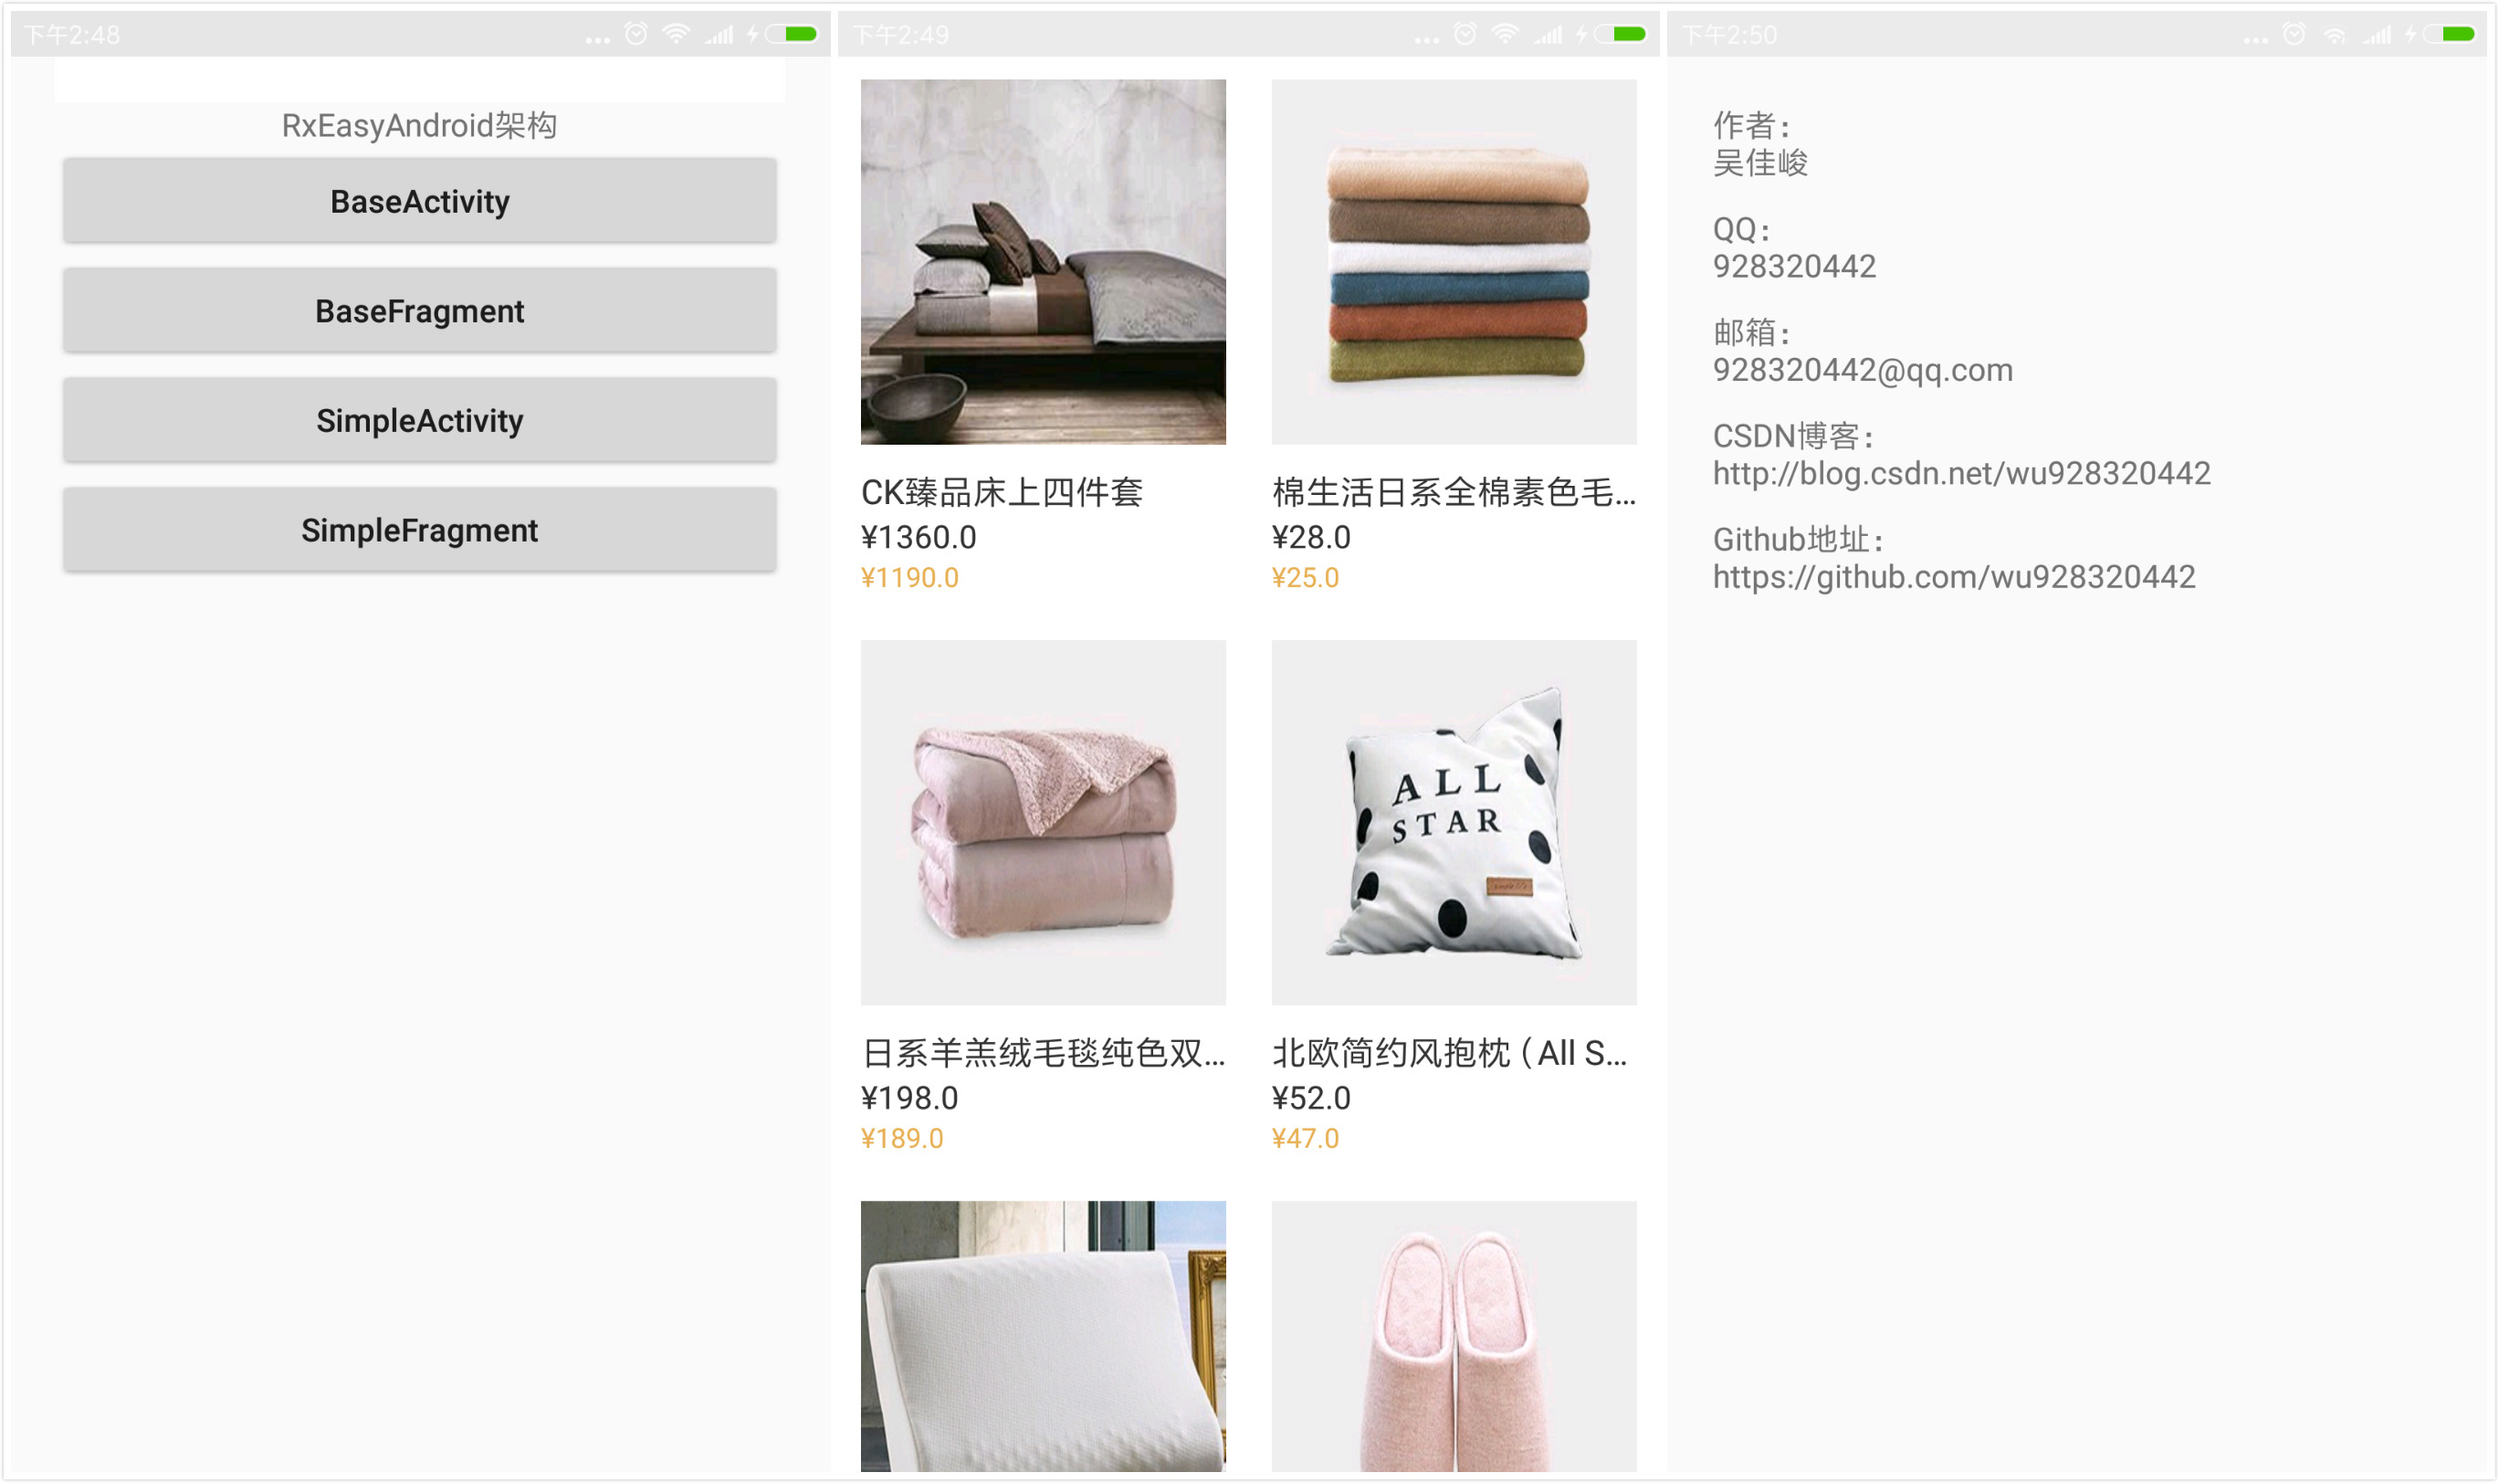
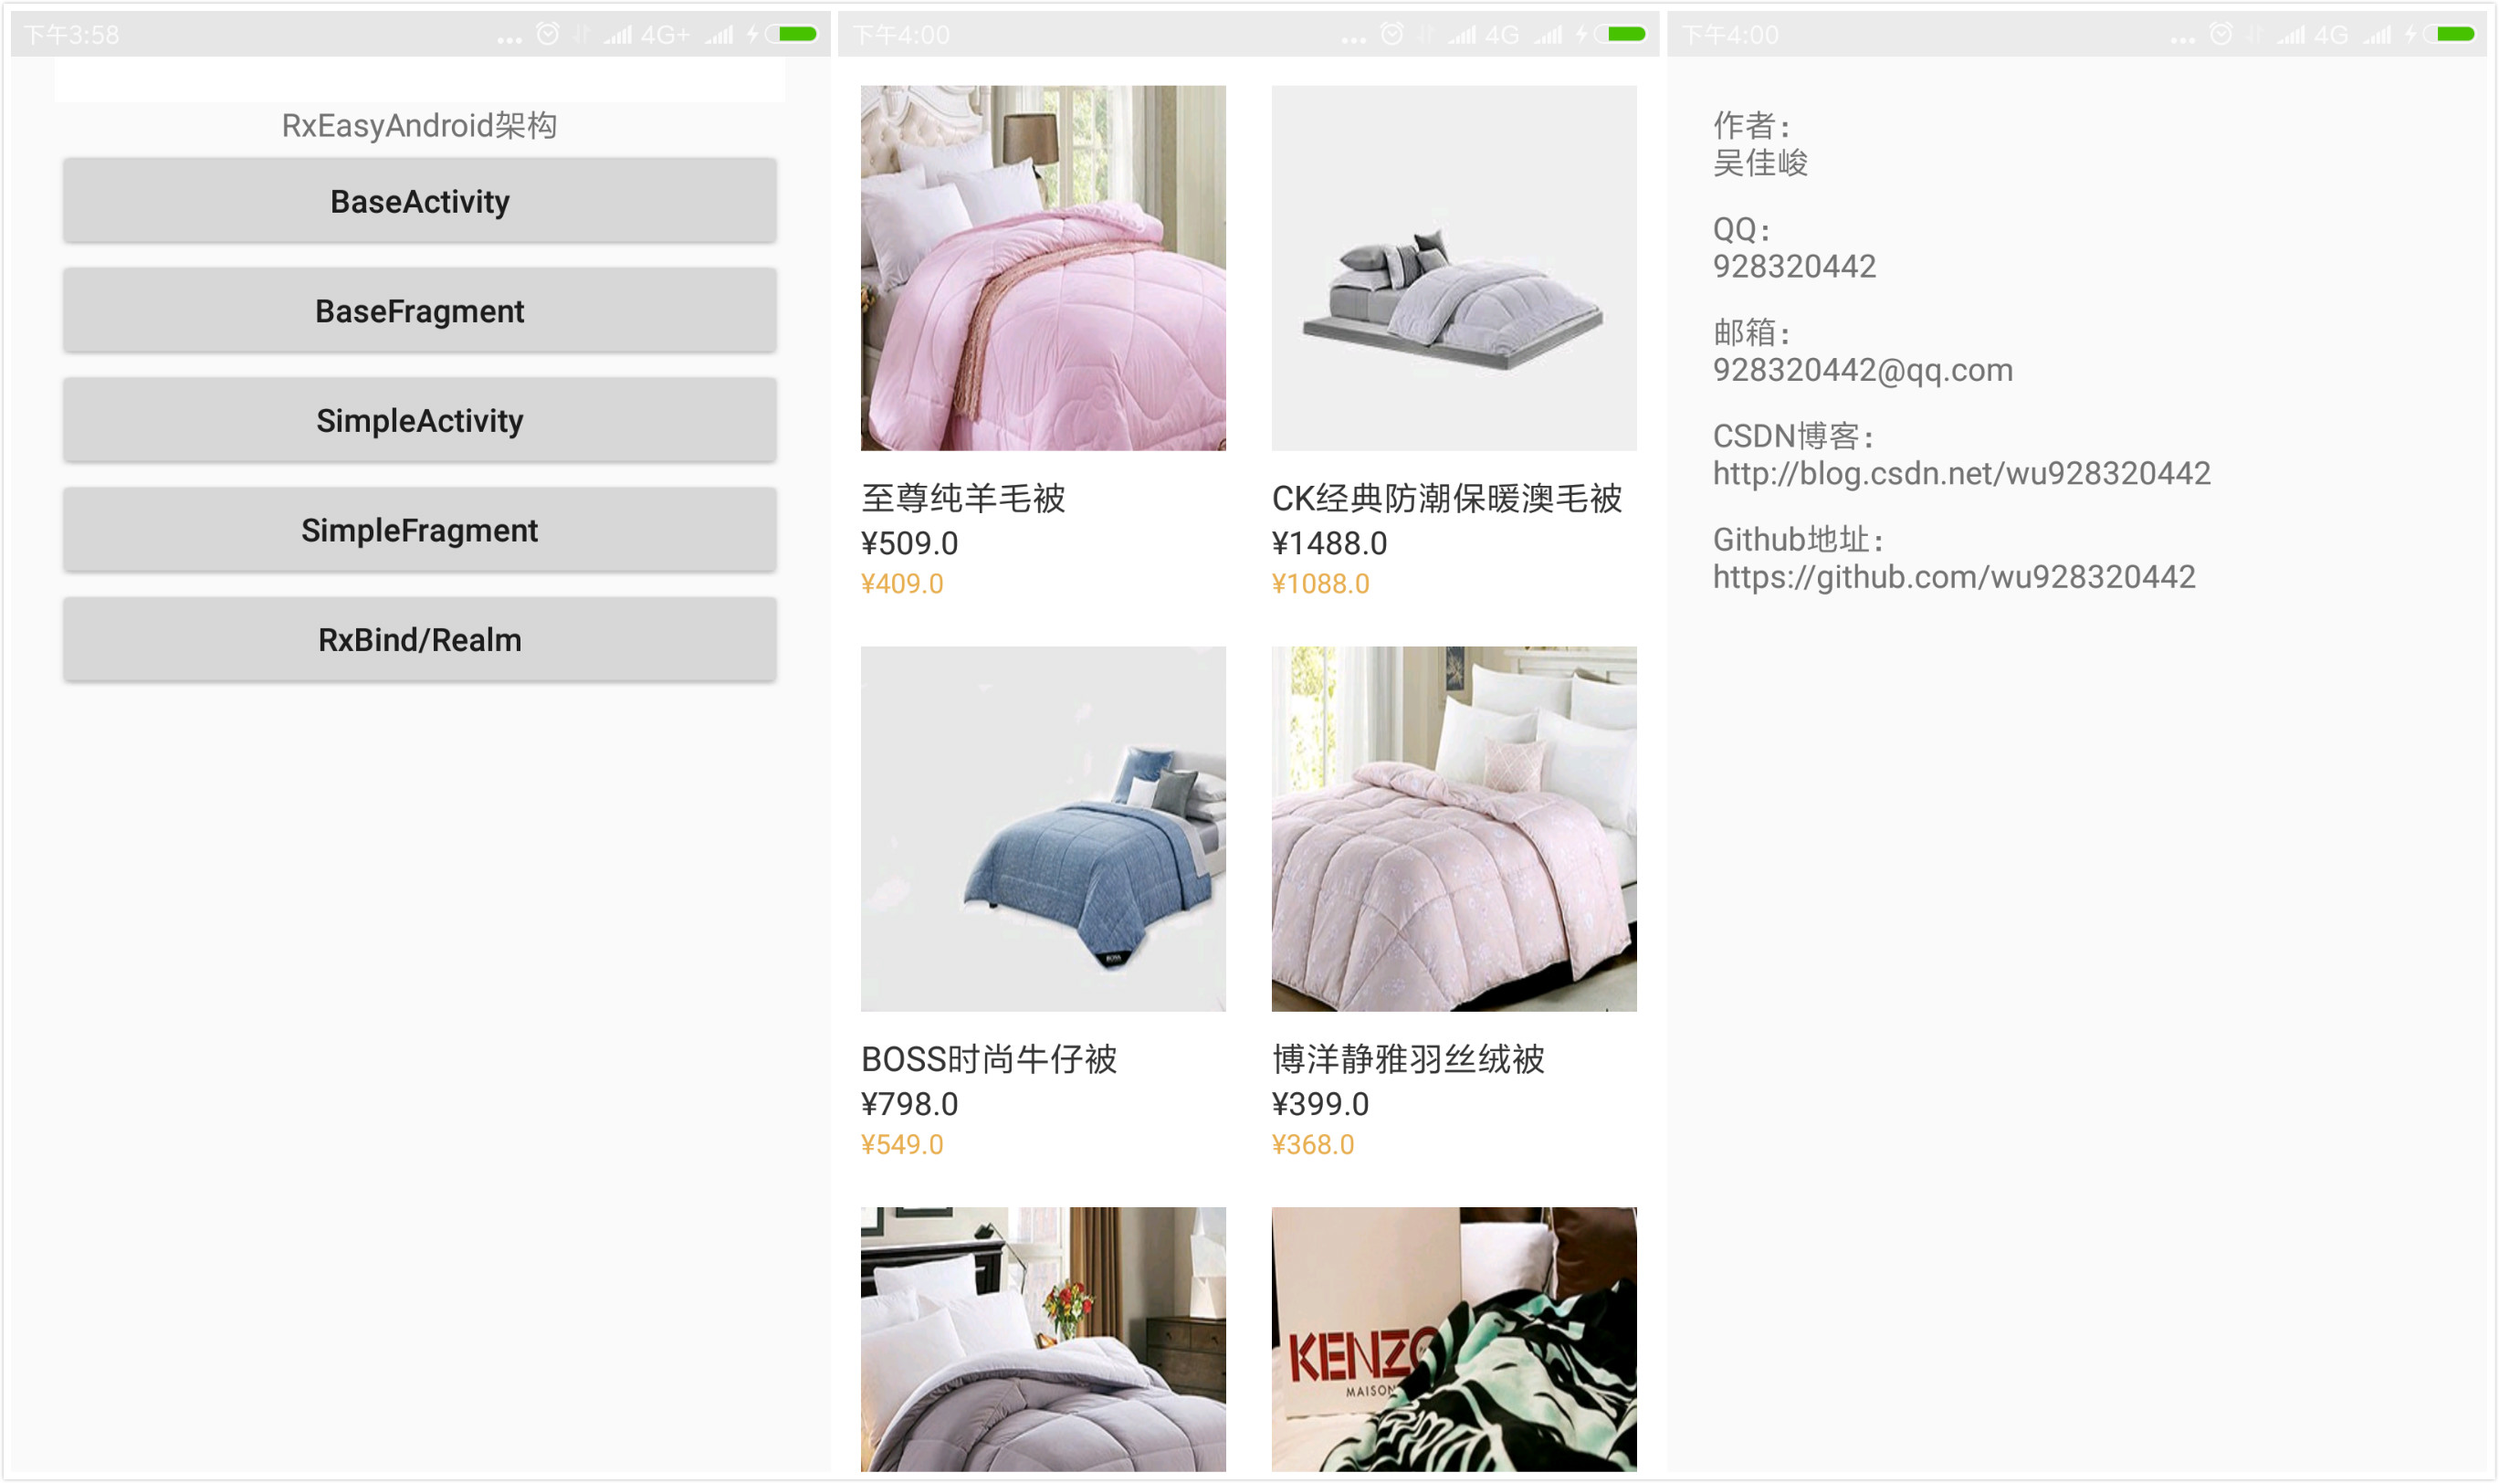
更新说明

diff --git a/README.md b/README.md
@@ -28,19 +28,19 @@
 
 # 版本更新内容
 * 2.1
-* 1.集成RxBind
-* 2.集成Realm
-* 3.SimpleActivity SimpleFragment也支持依赖注入
+1.集成RxBind
+2.集成Realm
+3.SimpleActivity SimpleFragment也支持依赖注入
 
 * 2.0
-* APP 部分
-* 1.去除Clean建筑模式
-* 2.封装常用Rx操作
-* 3.RxJava支持
-* 4.增加了状态栏设置
-* 类库：
-* 1.删除无用的Presenter EasyBasePresenterFrg EasyBaseViewFrg
-* 2.网络配置支持RxJava
+** APP 部分
+1.去除Clean建筑模式
+2.封装常用Rx操作
+3.RxJava支持
+4.增加了状态栏设置
+** 类库：
+1.删除无用的Presenter EasyBasePresenterFrg EasyBaseViewFrg
+2.网络配置支持RxJava
 
 # 联系方式
 * **QQ** 928320442
